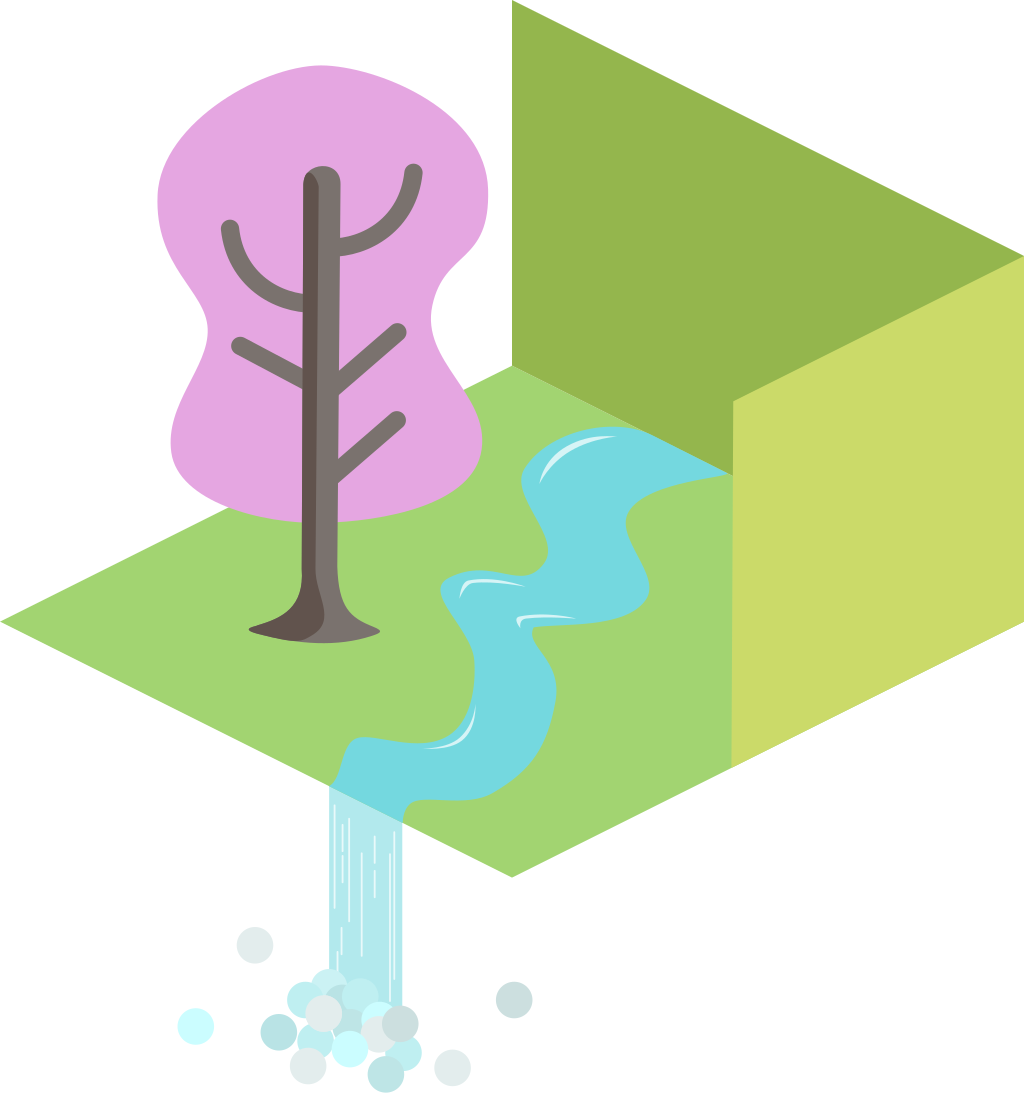
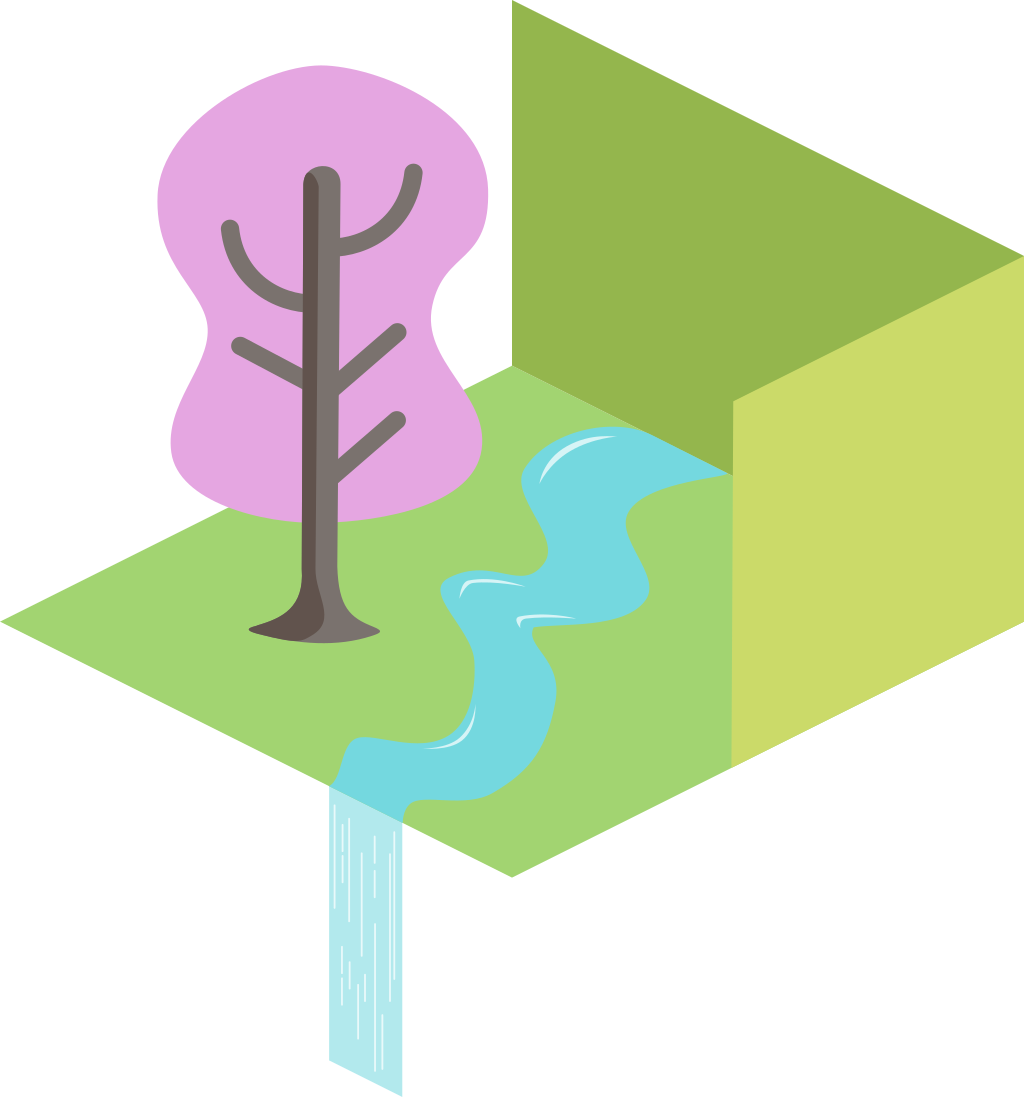
:iphone: Make animation responsive.
* Re-imported newly-updated banner images, with fixed waterfall effects.

Changed region(s): [[0.2188, 0.8368, 0.4688, 1.0], [0.1562, 0.8988, 0.2188, 0.9608], [0.4688, 0.8988, 0.5312, 0.9298]]

diff --git a/src/components/ConnectRoom.vue b/src/components/ConnectRoom.vue
@@ -80,11 +80,12 @@ export default {
 			searchRoomErrorVisibility: false,
 			initialBannerY: 0,
 			bannerOffsetY: 0,
+			computedRoomsPosition: [[0, 0], [0, 0], [0, 0], [0, 0]],
 			areRoomsAnimationsInitialized: false,
 			intervalsRooms: [undefined, undefined, undefined, undefined],
 			animationGoingDown: [true, false, false, true],
-			animationMagnitude: [10, 12, 16, 10],
-			animationDuration: [1.2, 1, 1, .8],
+			animationMagnitude: [6, 10, 8, 12],
+			animationDuration: [1.2, 1, 1.2, .8],
 		};
 	},
 	mounted() {
@@ -133,15 +134,6 @@ export default {
 			// Recompute
 			bannerHeight = bannerPlaceholder.getBoundingClientRect().height;
 			
-			const posImg = (img, x, y) => {
-				img.style.position = "absolute";
-				img.style.left = (bannerX + x) * (bannerWidth / 718) + "px";
-				let top = (bannerY + y) * (bannerWidth / 718);
-				if (top < bannerY)
-					this.bannerOffsetY = bannerY - top;
-				img.style.top = (top + this.bannerOffsetY) + "px"
-			};
-			
 			let room1 = this.$refs["room1"];
 			let room2 = this.$refs["room2"];
 			let room3 = this.$refs["room3"];
@@ -150,24 +142,35 @@ export default {
 			
 			rooms.forEach((room, index) => room.style.zIndex = index);
 			
+			const posImg = (img, x, y, animationMagnitude = 0) => {
+				img.style.position = "absolute";
+				let left = (bannerX + x) * (bannerWidth / 718) + "px";
+				img.style.left = left;
+				let top = (bannerY + y) * (bannerWidth / 718);
+				if ((top + animationMagnitude) < bannerY)
+					this.bannerOffsetY = bannerY - top - animationMagnitude;
+				img.style.top = (top + this.bannerOffsetY) + "px";
+				return [left, top];
+			};
+			
 			resizeImg(room1, bannerWidth / 2.5, null, 1024, 1024);
 			resizeImg(room2, bannerWidth / 2.2, null, 1024, 1097);
 			resizeImg(room3, bannerWidth / 2.25, null, 1024, 812);
 			resizeImg(room4, bannerWidth / 1.2, null, 1024, 602);
 			
-			posImg(room1, 0, 50);
-			posImg(room2, 400, 0);
-			posImg(room3, 300, 230);
-			posImg(room4, -150, 320);
+			this.computedRoomsPosition[0] = posImg(room1, 0, 50, this.animationMagnitude[0]);
+			this.computedRoomsPosition[1] = posImg(room2, 400, 0, this.animationMagnitude[1]);
+			this.computedRoomsPosition[2] = posImg(room3, 290, 230, this.animationMagnitude[2]);
+			this.computedRoomsPosition[3] = posImg(room4, -150, 320, this.animationMagnitude[3]);
 			
 			// Add animation
 			if (!this.areRoomsAnimationsInitialized) {
 				rooms.forEach((room, index) => {
 					this.intervalsRooms[index] = setInterval(() => {
 						if (this.animationGoingDown[index])
-							room.style.top = room.getBoundingClientRect().y + this.animationMagnitude[index] + "px";
+							room.style.top = this.computedRoomsPosition[index][1] + this.animationMagnitude[index] + "px";
 						else
-							room.style.top = room.getBoundingClientRect().y - this.animationMagnitude[index] + "px";
+							room.style.top = this.computedRoomsPosition[index][1] - this.animationMagnitude[index] + "px";
 						this.animationGoingDown[index] = !this.animationGoingDown[index];
 					}, this.animationDuration[index] * 1000)
 				});
